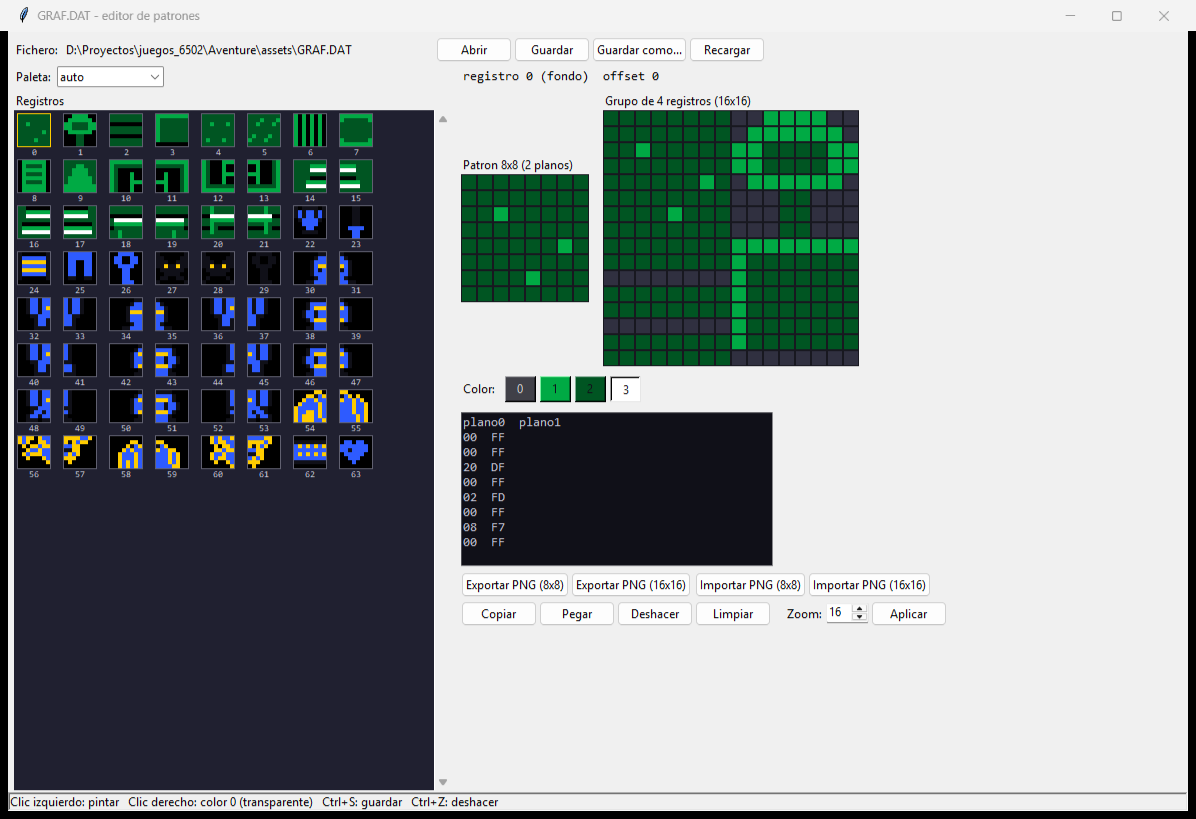
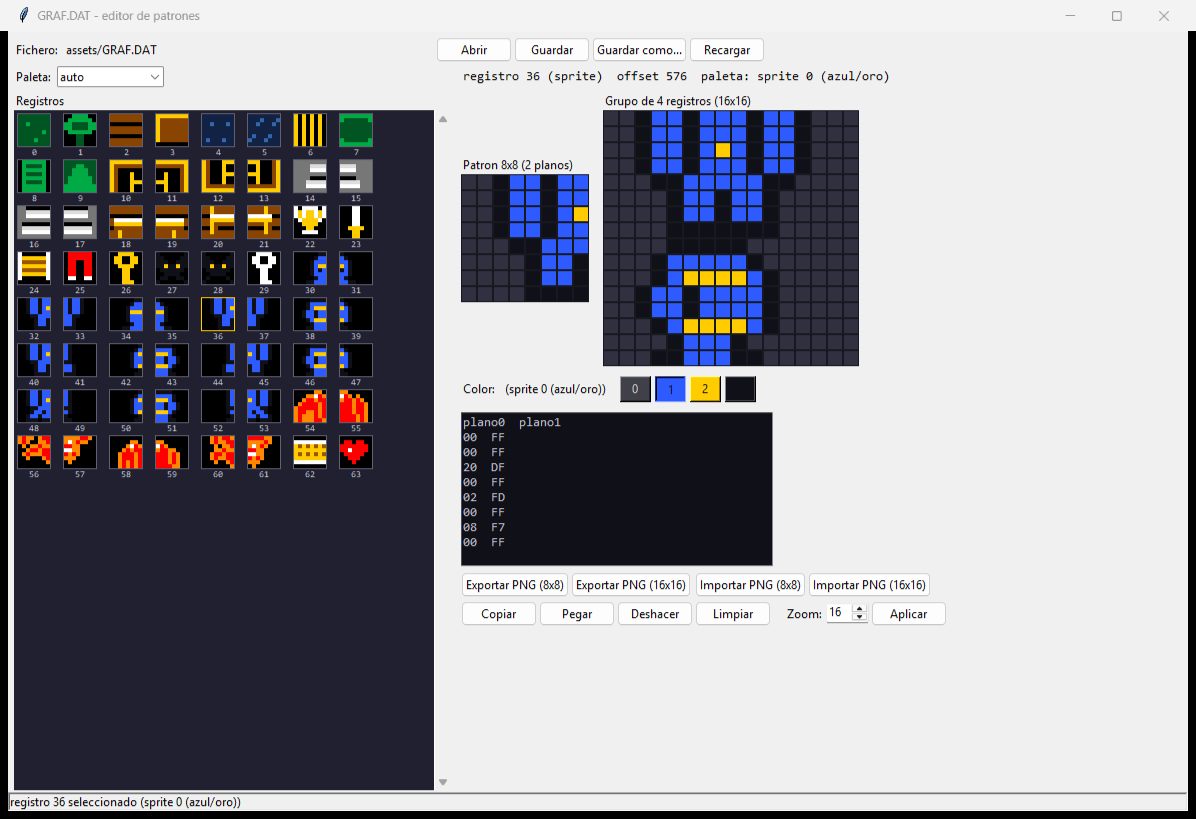
Editor de GRAF.DAT: la paleta sigue al patron seleccionado
Se aniade la tabla de paletas que usa el juego (tools/graf_format.py: BG_REC_PAL y SPR_REC_PAL, derivadas de bg_pal/spr_pal y de los tiles de game.c). Al seleccionar un registro, la vista previa, las miniaturas y los botones de color cambian a su paleta real: agujero en madera, escalera en gris, altar en oro, jugador en azul/oro, iman y dragon en rojo, corazon en rojo. El desplegable sigue permitiendo forzar cualquier paleta. Ademas se puede abrir con un registro ya elegido (python tools/graf_editor.py assets/GRAF.DAT 36).

diff --git a/tools/graf_editor.py b/tools/graf_editor.py
@@ -139,9 +139,12 @@ class Editor(tk.Tk):
         pal_frame = ttk.Frame(right)
         pal_frame.pack(side="top", anchor="w", pady=(4, 4))
         ttk.Label(pal_frame, text="Color:").pack(side="left", padx=(0, 6))
+        self.lbl_pal = ttk.Label(pal_frame, text="")
+        self.lbl_pal.pack(side="left", padx=(0, 10))
         self.color_buttons = []
         for i in range(4):
-            b = tk.Button(pal_frame, width=3, text=str(i), command=(lambda k: self.set_color(k))(i))
+            b = tk.Button(pal_frame, width=3, text=str(i),
+                          command=lambda k=i: self.set_color(k))
             b.pack(side="left", padx=2)
             self.color_buttons.append(b)
 
@@ -186,16 +189,30 @@ class Editor(tk.Tk):
     # Paleta y refresco
     # ------------------------------------------------------------------
     def paleta(self, i=None):
-        """Paleta (4 colores RGB) con la que se ve el registro i."""
+        """Paleta (4 colores RGB) con la que se ve el registro i.
+
+        En modo "auto" se usa la paleta que el juego aplica a ese patron; el
+        desplegable permite forzar otra para ver como quedaria con otros
+        colores.
+        """
         i = self.sel if i is None else i
         modo = self.cmb_pal.get()
         if self.graf is None:
             return gf.BG_PAL[0]
         if modo == "auto":
-            return gf.SPR_PAL[0] if self.graf.is_sprite(i) else gf.BG_PAL[0]
+            idx = gf.rec_pal_index(i, self.graf.n_bg)
+            return gf.SPR_PAL[idx] if self.graf.is_sprite(i) else gf.BG_PAL[idx]
         if modo.startswith("fondo"):
             return gf.BG_PAL[int(modo[-1])]
         return gf.SPR_PAL[int(modo[-1])]
+
+    def nombre_paleta(self, i=None):
+        i = self.sel if i is None else i
+        if self.graf is None:
+            return "-"
+        if self.cmb_pal.get() != "auto":
+            return self.cmb_pal.get()
+        return gf.rec_pal_nombre(i, self.graf.n_bg)
 
     def set_color(self, k):
         self.color = k
@@ -211,6 +228,7 @@ class Editor(tk.Tk):
                 b.config(bg=rgb_to_hex(pal[k]), fg="#101018",
                          activebackground=rgb_to_hex(pal[k]))
             b.config(relief="sunken" if k == self.color else "raised")
+        self.lbl_pal.config(text="(%s)" % self.nombre_paleta())
 
     def refrescar(self):
         if not self.graf:
@@ -264,9 +282,9 @@ class Editor(tk.Tk):
         i = self.sel
         rec = self.graf.get(i)
         pal = self.paleta(i)
-        self.lbl_info.config(text="registro %d (%s)  offset %d"
+        self.lbl_info.config(text="registro %d (%s)  offset %d  paleta: %s"
                              % (i, "sprite" if self.graf.is_sprite(i) else "fondo",
-                                i * gf.REC))
+                                i * gf.REC, self.nombre_paleta(i)))
         # lienzo 8x8
         cv = self.canvas_edit
         cv.delete("all")
@@ -316,9 +334,11 @@ class Editor(tk.Tk):
         if not self.graf or i >= len(self.graf):
             return
         self.sel = i
+        self.refrescar_colores()
         self.refrescar_thumbs()
         self.refrescar_editor()
-        self.refrescar_estado("registro %d seleccionado" % i)
+        self.refrescar_estado("registro %d seleccionado (%s)"
+                              % (i, self.nombre_paleta(i)))
 
     def _paint(self, event):
         if not self.graf:
@@ -531,8 +551,12 @@ class Editor(tk.Tk):
 
 
 def main(argv):
-    path = argv[1] if len(argv) > 1 else None
+    args = [a for a in argv[1:] if not a.startswith("-")]
+    path = args[0] if args else None
+    sel = int(args[1]) if len(args) > 1 else None
     app = Editor(path)
+    if sel is not None:
+        app.seleccionar(sel)
     app.mainloop()
     return 0
 

diff --git a/tools/graf_format.py b/tools/graf_format.py
@@ -41,6 +41,43 @@ SPR_PAL = {
     3: [(0x00, 0x00, 0x00), (0x00, 0xFF, 0x00), (0x00, 0x88, 0x00), (0xFF, 0xFF, 0xFF)],
 }
 
+# Paleta (0-3) que usa cada registro en el juego (ver game.c).
+BG_REC_PAL = (
+    0, 0, 1, 1, 2, 2, 1, 0, 0, 0,      # 0-9: base (hierba, arbol, suelo, muro, ...)
+    1, 1, 1, 1,                        # 10-13: agujero (madera)
+    3, 3, 3, 3,                        # 14-17: escalera (piedra)
+    1, 1, 1, 1,                        # 18-21: altar
+)
+
+SPR_REC_PAL = (
+    1, 1, 1, 2, 1, 0, 0, 1,            # 0-7: caliz, espada, puente, iman, llaves, murcielago
+) + (0,) * 24 + (2,) * 8 + (1, 2)     # 8-31 jugador, 32-39 dragon, 40 puente, 41 corazon
+
+PAL_NOMBRE = {
+    ("fondo", 0): "fondo 0 (verde)",
+    ("fondo", 1): "fondo 1 (oro/madera)",
+    ("fondo", 2): "fondo 2 (azul)",
+    ("fondo", 3): "fondo 3 (gris)",
+    ("sprite", 0): "sprite 0 (azul/oro)",
+    ("sprite", 1): "sprite 1 (dorado)",
+    ("sprite", 2): "sprite 2 (rojo)",
+    ("sprite", 3): "sprite 3 (verde)",
+}
+
+
+def rec_pal_index(i, n_bg=22):
+    """Indice de paleta (0-3) que usa el registro i en el juego."""
+    if i < n_bg:
+        return BG_REC_PAL[i] if i < len(BG_REC_PAL) else 0
+    k = i - n_bg
+    return SPR_REC_PAL[k] if k < len(SPR_REC_PAL) else 0
+
+
+def rec_pal_nombre(i, n_bg=22):
+    """Nombre de la paleta que usa el registro i en el juego."""
+    kind = "sprite" if i >= n_bg else "fondo"
+    return PAL_NOMBRE[(kind, rec_pal_index(i, n_bg))]
+
 
 def default_n_bg(size):
     """Numero de registros de fondo a partir del tamano del fichero."""

diff --git a/README.md b/README.md
@@ -183,6 +183,7 @@ aplicacion de escritorio (Tkinter, sin instalar nada mas que Pillow):
 ```sh
 python tools/graf_editor.py            # abre assets/GRAF.DAT
 python tools/graf_editor.py otro.dat   # o cualquier otro fichero
+python tools/graf_editor.py assets/GRAF.DAT 36   # abre con un registro elegido
 ```
 
 En Windows tambien se puede lanzar con doble clic en `tools/graf_editor.bat`.
@@ -191,6 +192,11 @@ En Windows tambien se puede lanzar con doble clic en `tools/graf_editor.bat`.
 
 - Miniaturas de los 64 registros (22 de fondo + 42 de sprites) con la **paleta
   real del juego**; se puede forzar otra paleta desde el desplegable.
+- La **paleta cambia sola al seleccionar un patron**: es la que le pone el juego
+  (hoyo en madera, escalera en gris, altar en oro, jugador en azul/oro, iman y
+  dragon en rojo, corazon en rojo...). Los botones de color y la vista previa
+  siguen esa paleta, y el desplegable permite forzar otra para ver como
+  quedaria con otros colores.
 - Pintar pixel a pixel el registro elegido: **clic izquierdo** pinta el color
   marcado y **clic derecho** pone el color 0 (transparente).
 - Vista del **grupo de 4 registros** que forma cada imagen de 16x16 (hoyo,
